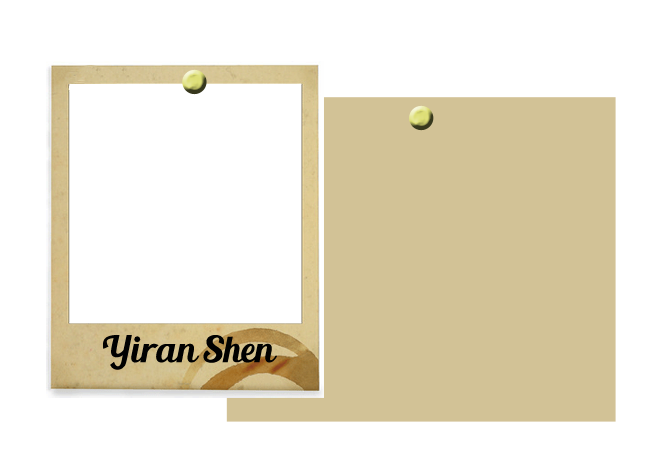
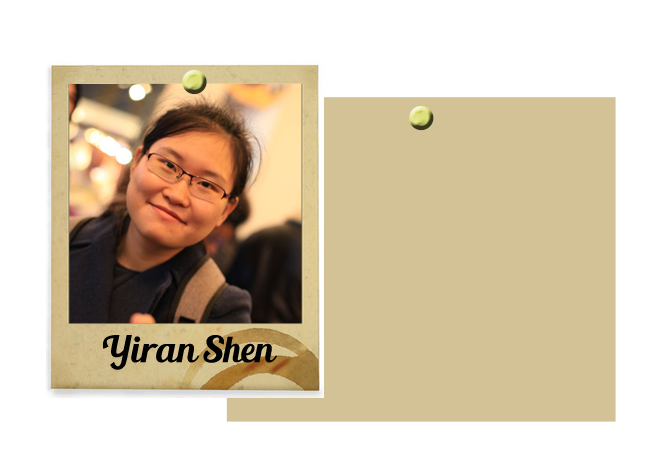
Added image to the about page

Changed region(s): [[0.0926, 0.185, 0.463, 0.7401]]

diff --git a/About.html b/About.html
@@ -127,7 +127,7 @@
 				left: auto;
 				border-width: 10px;
 				table-layout: fixed;
-				width: 400px;
+				width: 370px;				
 			}
 			#Tools {
 				font-family: 'Sofia';
@@ -135,12 +135,13 @@
 				text-shadow: 2px 2px 8px white;
 				position:absolute;
 				top:1410px;
-				margin-left: 770px;
+				margin-left: 750px;
 				left: auto;
 				border-width: 10px;
 				table-layout: fixed;
-				width: 400px;
+				width: 400px;				
 			}
+			
 
 			#d-carol td, #d-kyle td, #d-masa td, #d-yiran td, #d-aldo td, #Stats td, #Tools td{
 				word-wrap:break-word;
@@ -150,6 +151,26 @@
 				margin-left: auto;
 				margin-right: auto;
 			}
+			
+			#Stats td{
+				text-align: center;
+				vertical-align: middle;
+			}
+			#Stats th {
+				font-size: 25px;
+			}
+			
+			#Tools td{
+				text-align: center;
+				vertical-align: middle;
+			}
+			#Tools th {
+				font-size: 25px;
+			}
+			#links {
+				border-style: ridge;	
+			}
+	
 		</style>
 	</head>
 	<body>
@@ -268,31 +289,19 @@
 					<th>Stats</th>
 				</tr>
 				<tr>
-					<td><strong>Total Number of Commits: 46</strong></td>
+					<td><strong>Total Number of Commits: </strong> 48</td>
 				</tr>
 				<tr>
-					<td><strong>Total Number of Issues: 15</strong></td>
+					<td><strong>Total Number of Issues: </strong> 15</td>
 				</tr>
 				<tr>
-					<td>
-					<a href=https://github.com/MasahiroWard/cs329e-idb/issues>
-					GitHub Issue Tracker
-					</a>
-					</td>
+					<td id="links"><a href="https://github.com/MasahiroWard/cs329e-idb/issues"><strong>GitHub Issue Tracker</strong></a></td>
 				</tr>
 				<tr>
-					<td>
-					<a href=https://github.com/MasahiroWard/cs329e-idb>
-					GitHub Repo 
-					</a>
-					</td>
+					<td id="links"><a href="https://github.com/MasahiroWard/cs329e-idb"><strong>GitHub Repo</strong></a> </td>
 				</tr>
 				<tr>
-					<td>
-					<a href=https://github.com/MasahiroWard/cs329e-idb/wiki>
-					GitHub Wiki Link 
-					</a>
-					</td>
+					<td id="links"><a href="https://github.com/MasahiroWard/cs329e-idb/wiki"><strong>GitHub Wiki Link</strong></a> </td>
 				</tr>
 			</table>
 			<table id="Tools">
@@ -300,7 +309,7 @@
 					<th>Tools</th>
 				</tr>
 				<tr>
-					<td><strong>Tools Used: </strong>GitHub, Slack, Adobe Photoshop </td>
+					<td><strong>Tools Used: </strong>GitHub, Slack, Adobe Photoshop, Javascript </td>
 				</tr>
 			</table>
 		</div>
